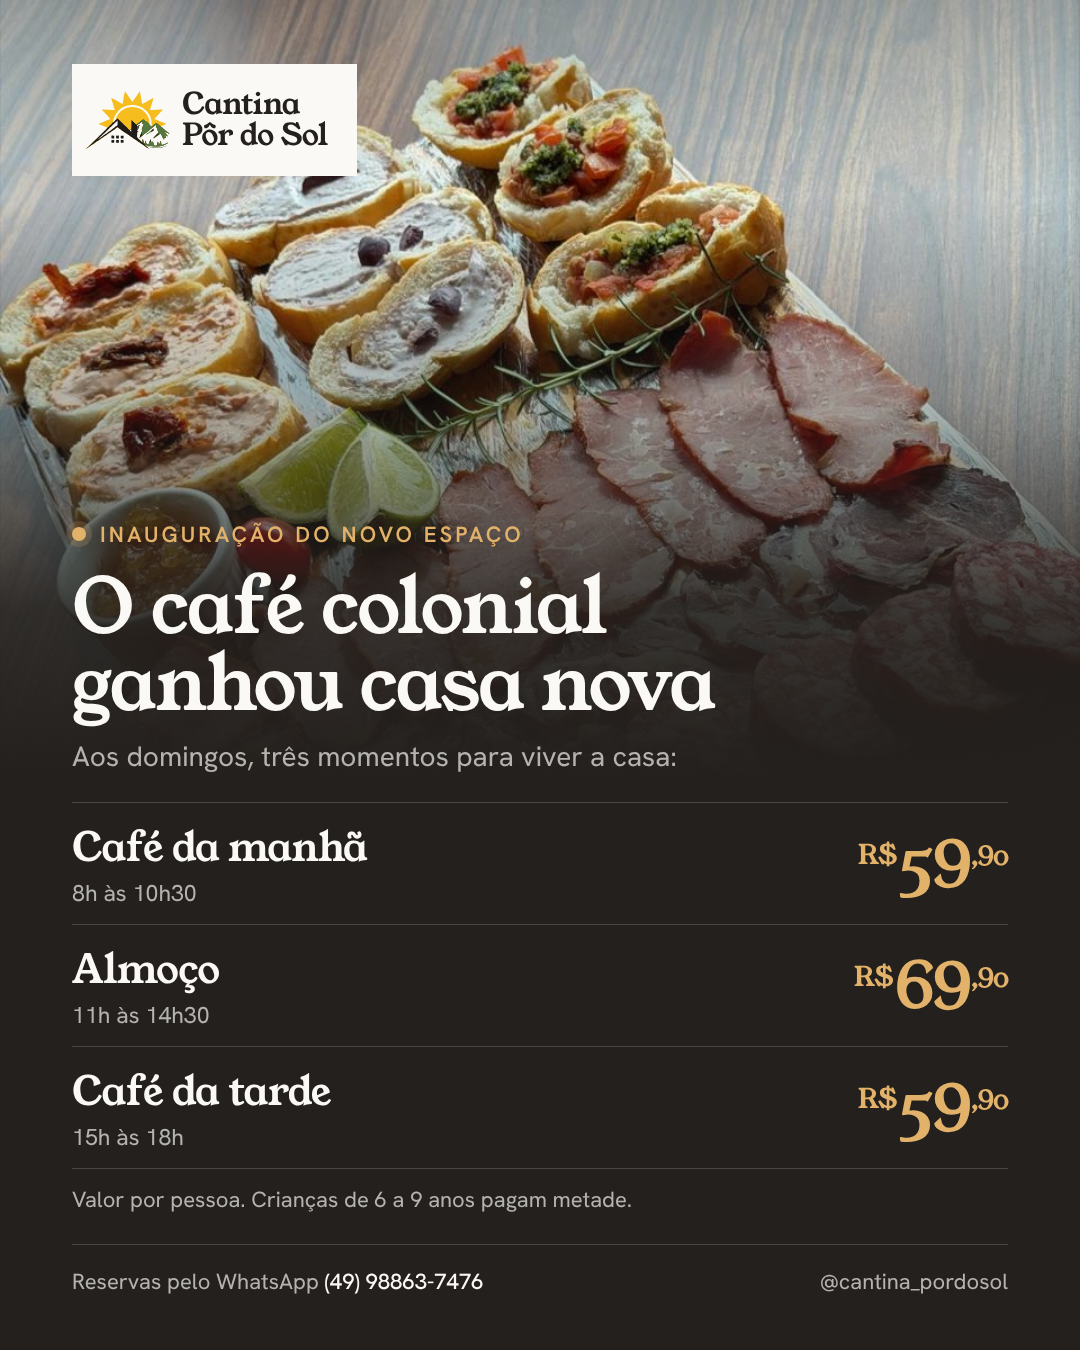
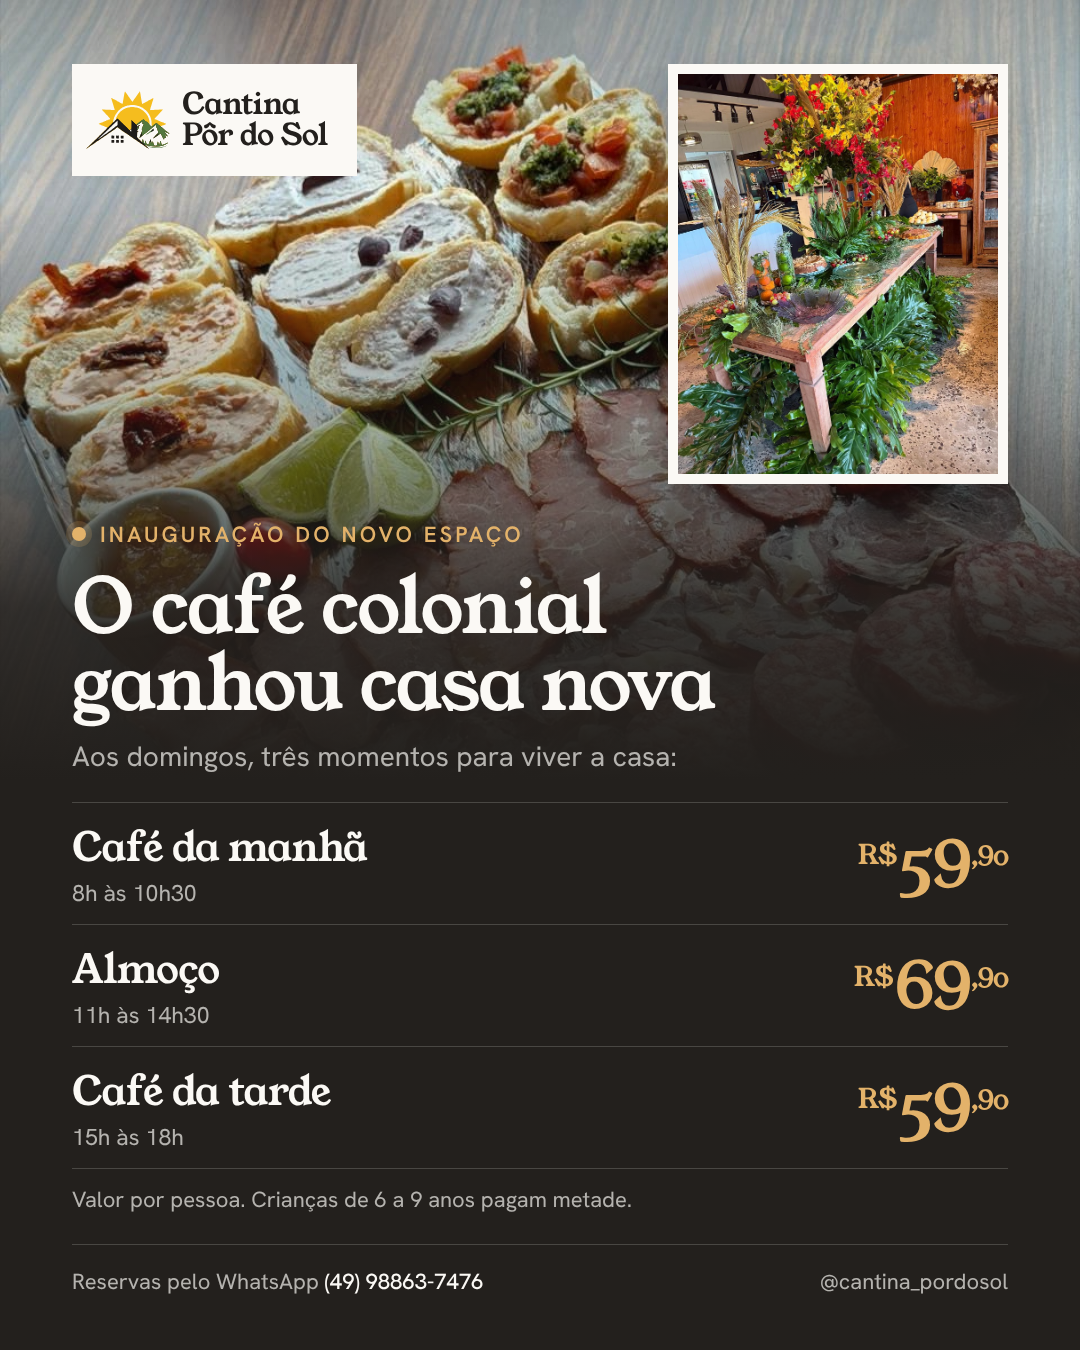
Artes de preços ganham a foto da mesa do café com flores
Claude-Session: https://claude.ai/code/session_01PmZAygptSP9moUGVfbCWeH

Changed region(s): [[0.6111, 0.0311, 0.9472, 0.3733]]

diff --git a/README.md b/README.md
@@ -53,5 +53,5 @@ A pasta `server/` tem a API em NestJS (reservas, experiências, saúde). Veja `s
 
 A pasta `divulgacao/` guarda as artes para o Instagram (fica fora de `public/`, então não vai para o site):
 
-- `inauguracao-post-1080x1350.png` e `inauguracao-stories-1080x1920.png`: o domingo com café da manhã, almoço e café da tarde, horários e valores, sobre a foto da tábua de frios (`tabua`).
+- `inauguracao-post-1080x1350.png` e `inauguracao-stories-1080x1920.png`: o domingo com café da manhã, almoço e café da tarde, horários e valores, sobre a foto da tábua de frios (`tabua`), com a mesa do café com flores (`buffet-mesa`) em destaque.
 - `novo-espaco-post-1080x1350.png` e `novo-espaco-stories-1080x1920.png`: o anúncio do novo espaço, com a janela para o vale (`vista-tabua`) e a tábua de frios em destaque.
